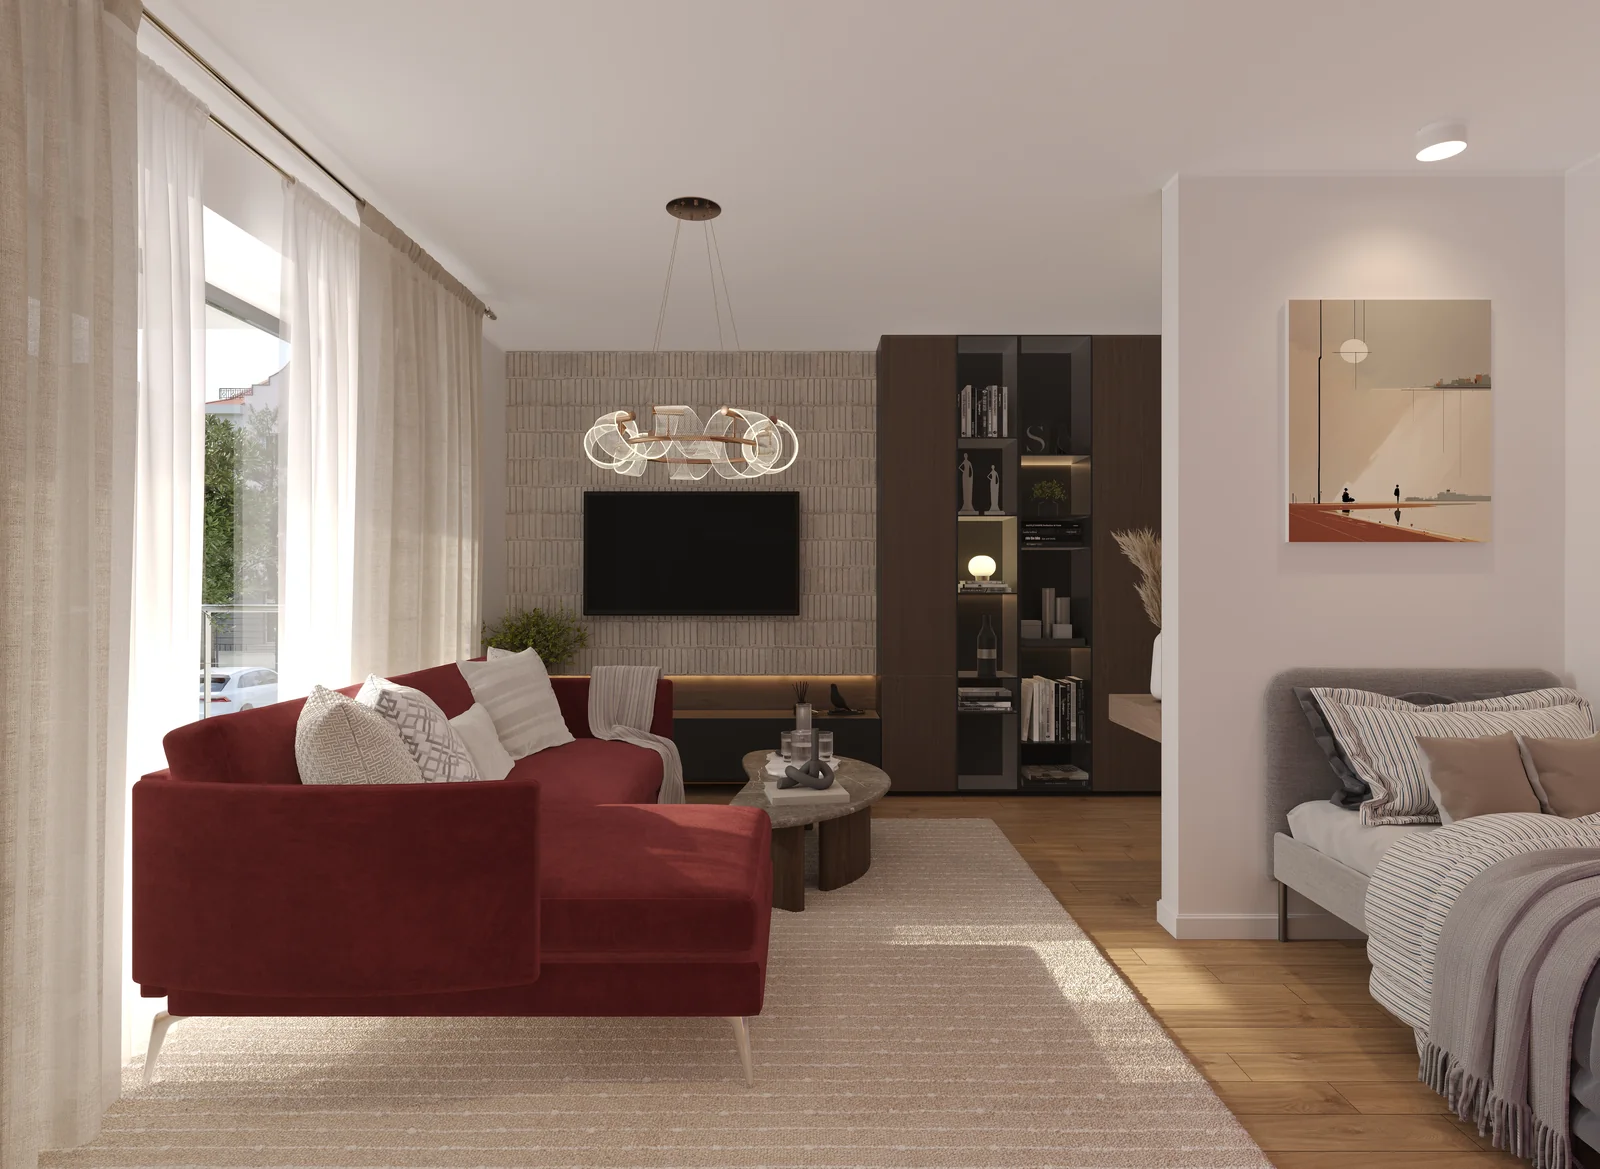
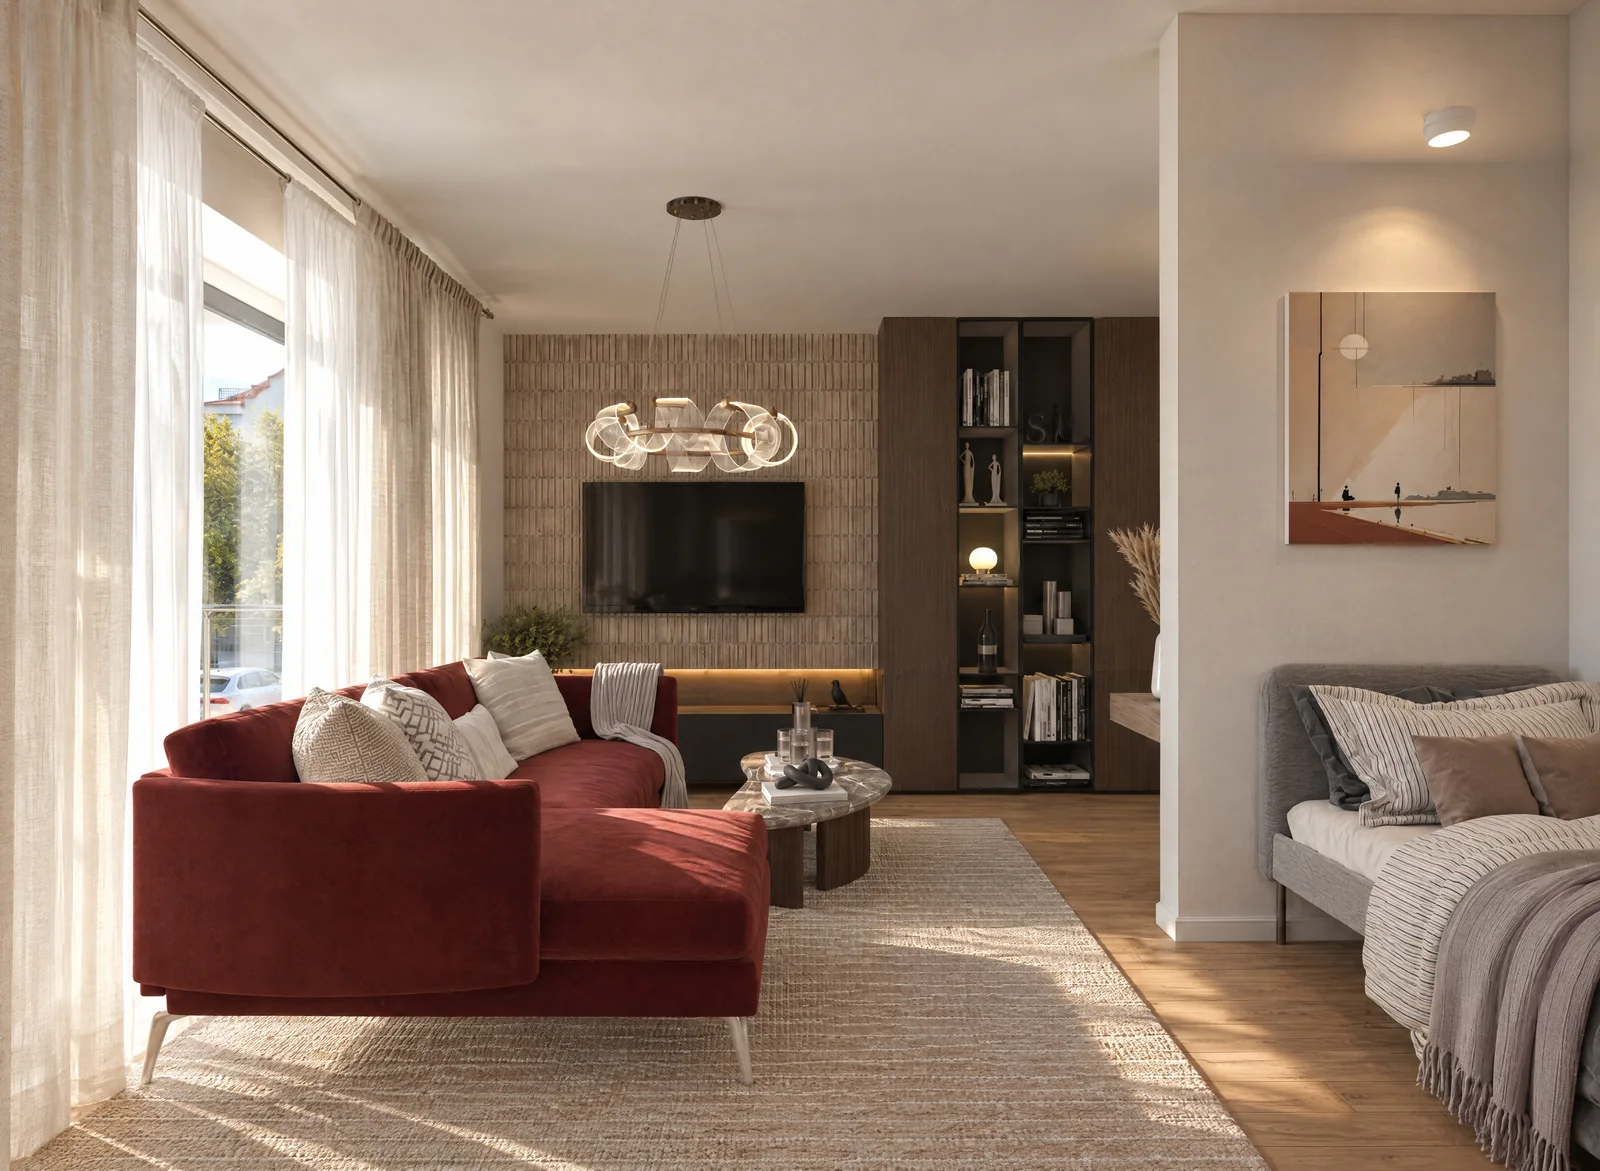
chore: publish site build 2026-09-13 14:47 UTC

diff --git a/index.html b/index.html
@@ -20,7 +20,7 @@
 <meta name="twitter:card" content="summary_large_image">
 <link rel="icon" href="/favicon.svg" type="image/svg+xml">
 <link rel="apple-touch-icon" href="/favicon.svg">
-<link rel="stylesheet" href="/stil.6be6761d.css">
+<link rel="stylesheet" href="/stil.f407c8a6.css">
 <link rel="stylesheet" href="/einwilligung.9a00bb95.css">
 <link rel="stylesheet" href="/formular.dc992d23.css">
 <link rel="stylesheet" href="/wohnungsrechner.1891209b.css">
@@ -182,6 +182,7 @@
   <section class="h8-abschnitt verkaufsstand">
     <h2 class="h8-abschnitt__titel h8-abschnitt__titel--vorbild" id="verkaufsstand" data-am-einblenden>Verkaufsstand</h2>
     <img class="h8-bild" src="/bilder/innen-03-wohnen-kueche-offen-2400.webp" srcset="/bilder/innen-03-wohnen-kueche-offen-800.webp 800w, /bilder/innen-03-wohnen-kueche-offen-1200.webp 1200w, /bilder/innen-03-wohnen-kueche-offen-1600.webp 1600w, /bilder/innen-03-wohnen-kueche-offen-2400.webp 2400w" sizes="(max-width: 1180px) 92vw, 1100px" alt="Wohnen mit offener Küche" width="1600" height="1169" loading="lazy" decoding="async">
+    <p class="h8-bildhinweis">Visualisierung, mit KI erzeugt. Unverbindlich.</p>
     <div class="h8-inhalt">
       <p class="h8-fliesstext">Der Vertrieb läuft seit September 2026. Reserviert wird mit einer Reservierungsvereinbarung, der notarielle Kaufvertrag folgt, sobald die Teilungserklärung vorliegt. Welche Wohnung noch frei ist, steht in der Übersicht weiter unten und wird laufend nachgeführt.</p>
       <ul class="h8-ampel">
@@ -635,6 +636,7 @@
 <section class="h8-abschnitt amv">
       <h2 class="h8-abschnitt__titel h8-abschnitt__titel--vorbild" id="vorteile" data-am-einblenden>Zwei Vorteile für Kapitalanleger</h2>
       <img class="h8-bild" src="/bilder/innen-02a-wohnen-sofa-braun-2400.webp" srcset="/bilder/innen-02a-wohnen-sofa-braun-800.webp 800w, /bilder/innen-02a-wohnen-sofa-braun-1200.webp 1200w, /bilder/innen-02a-wohnen-sofa-braun-1600.webp 1600w, /bilder/innen-02a-wohnen-sofa-braun-2400.webp 2400w" sizes="(max-width: 1180px) 92vw, 1100px" alt="Wohnen mit Schlafbereich" width="1600" height="1169" loading="lazy" decoding="async">
+      <p class="h8-bildhinweis">Visualisierung, mit KI erzeugt. Unverbindlich.</p>
       <div class="h8-inhalt">
         <p class="h8-fliesstext">Der eine ist die Abschreibung, der andere das zinsgünstige KfW-Darlehen. Beide gelten für jede der zwölf Wohnungen.</p>
         <div class="amv__spalten">
@@ -731,12 +733,14 @@
       <p class="h8-fussnote">Ein Energieausweis liegt für den Neubau noch nicht vor. Sobald er ausgestellt ist, stehen die Pflichtangaben nach GEG § 87 an dieser Stelle. Bis dahin wird kein Energiekennwert genannt.</p>
     </div>
     <img class="h8-bild" src="/bilder/innen-05-bad-2400.webp" srcset="/bilder/innen-05-bad-800.webp 800w, /bilder/innen-05-bad-1200.webp 1200w, /bilder/innen-05-bad-1600.webp 1600w, /bilder/innen-05-bad-2400.webp 2400w" sizes="(max-width: 1180px) 92vw, 1100px" alt="Bad mit Walk-in-Dusche" width="1080" height="1350" loading="lazy" decoding="async">
+    <p class="h8-bildhinweis">Visualisierung, mit KI erzeugt. Unverbindlich.</p>
     </div>
   </section>
 
   <div class="h8-band">
     <section class="h8-abschnitt zeitplan">
       <img class="h8-bild" src="/bilder/innen-04-wohnen-gross-2400.webp" srcset="/bilder/innen-04-wohnen-gross-800.webp 800w, /bilder/innen-04-wohnen-gross-1200.webp 1200w, /bilder/innen-04-wohnen-gross-1600.webp 1600w, /bilder/innen-04-wohnen-gross-2400.webp 2400w" sizes="(max-width: 1180px) 92vw, 1100px" alt="Grosser Wohnraum" width="1600" height="1169" loading="lazy" decoding="async">
+      <p class="h8-bildhinweis">Visualisierung, mit KI erzeugt. Unverbindlich.</p>
       <div class="h8-inhalt">
         <h2 class="h8-abschnitt__titel" id="zeitplan" data-am-einblenden>Wo das Projekt steht</h2>
         <p class="h8-fliesstext">Der Zeitplan steht offen auf der Seite, mit dem, was erledigt ist, und dem, was noch aussteht. Gezahlt wird nach der Makler- und Bauträgerverordnung in Raten nach Baufortschritt; die erste Rate wird mit dem Baubeginn fällig.</p>
@@ -757,6 +761,7 @@
   <section class="h8-abschnitt vertrauen">
     <h2 class="h8-abschnitt__titel h8-abschnitt__titel--vorbild" id="vertrauen" data-am-einblenden>Wer hinter dem Projekt steht</h2>
     <img class="h8-bild" src="/bilder/innen-04-wohnen-gross-2400.webp" srcset="/bilder/innen-04-wohnen-gross-800.webp 800w, /bilder/innen-04-wohnen-gross-1200.webp 1200w, /bilder/innen-04-wohnen-gross-1600.webp 1600w, /bilder/innen-04-wohnen-gross-2400.webp 2400w" sizes="(max-width: 1180px) 92vw, 1100px" alt="Grosser Wohnraum" width="1600" height="1169" loading="lazy" decoding="async">
+    <p class="h8-bildhinweis">Visualisierung, mit KI erzeugt. Unverbindlich.</p>
     <div class="h8-inhalt">
       <p class="h8-fliesstext">Wir verkaufen kein vermitteltes Objekt. Das Grundstück in der Hainbachstrasse gehört seit November 2020 zur Amanthos-Gruppe, Planung und Baugenehmigung haben wir selbst betrieben. Deshalb ist der Kauf für Sie provisionsfrei.</p>
       <ul class="h8-personen" data-am-einblenden>
@@ -774,6 +779,7 @@
     <section class="h8-abschnitt kontakt">
       <h2 class="h8-abschnitt__titel h8-abschnitt__titel--vorbild" id="kontakt" data-am-einblenden>Ihre Ansprechpartner</h2>
       <img class="h8-bild" src="/bilder/innen-03-wohnen-kueche-offen-2400.webp" srcset="/bilder/innen-03-wohnen-kueche-offen-800.webp 800w, /bilder/innen-03-wohnen-kueche-offen-1200.webp 1200w, /bilder/innen-03-wohnen-kueche-offen-1600.webp 1600w, /bilder/innen-03-wohnen-kueche-offen-2400.webp 2400w" sizes="(max-width: 1180px) 92vw, 1100px" alt="Wohnen mit offener Küche" width="1600" height="1169" loading="lazy" decoding="async">
+      <p class="h8-bildhinweis">Visualisierung, mit KI erzeugt. Unverbindlich.</p>
       <div class="h8-inhalt">
         <p class="h8-fliesstext">Sie erreichen uns direkt, ohne Maklerbüro dazwischen. Für eine Besichtigung der Lage, für Fragen zur Finanzierung oder zur Reservierung: rufen Sie an oder buchen Sie ein Telefonat.</p>
 <div class="amp" data-am-einblenden>
@@ -816,6 +822,7 @@
   <section class="h8-abschnitt broschuere">
     <h2 class="h8-abschnitt__titel h8-abschnitt__titel--vorbild" id="broschuere" data-am-einblenden>Broschüre anfordern</h2>
     <img class="h8-bild" src="/bilder/innen-02b-wohnen-sofa-rot-2400.webp" srcset="/bilder/innen-02b-wohnen-sofa-rot-800.webp 800w, /bilder/innen-02b-wohnen-sofa-rot-1200.webp 1200w, /bilder/innen-02b-wohnen-sofa-rot-1600.webp 1600w, /bilder/innen-02b-wohnen-sofa-rot-2400.webp 2400w" sizes="(max-width: 1180px) 92vw, 1100px" alt="Wohnen mit rotem Sofa" width="1600" height="1169" loading="lazy" decoding="async">
+    <p class="h8-bildhinweis">Visualisierung, mit KI erzeugt. Unverbindlich.</p>
     <div class="h8-inhalt">
       <p class="h8-fliesstext">Grundrisse, Ausstattung und Kaufpreise aller zwölf Wohnungen. Sie erhalten die PDF sofort im Anschluss.</p>
       <p class="h8-fliesstext">Ihre Angaben gehen direkt an Julian Neyer und werden nur zur Beantwortung Ihrer Anfrage genutzt. Es folgt kein Newsletter.</p>

diff --git a/stil.f407c8a6.css b/stil.f407c8a6.css
@@ -366,6 +366,24 @@ p:last-child { margin-bottom: 0; }
   background: var(--h8-karte);
 }
 
+/* Die Kennzeichnung unter einem Abschnittsbild.
+ *
+ * Seit dem 13.09.2026 sind alle acht Motive KI-ueberarbeitet: die Geometrie stammt weiter
+ * aus den Renderings von anitekt, Materialien, Licht und Vegetation kommen aus dem
+ * Bildmodell. Ein Objektbild ist damit sichtbar kennzeichnungspflichtig nach Artikel 50
+ * KI-VO. Vorher trug den Hinweis nur die Wohnungskarte, weil nur ihre Bilder aus KI kamen.
+ *
+ * Werte gleichlautend mit `.h8-karte__bildhinweis` oben und mit den Hinweisregeln in
+ * wohnungen.css, lage.css und held.css: dieselbe Pflicht darf auf derselben Seite nicht
+ * viererlei aussehen. 12 px ist die Untergrenze des Hauses.
+ *
+ * Die Namen jener Regeln stehen hier bewusst NICHT ausgeschrieben: ein Waechter verbietet
+ * fremde Praefixe in diesem Blatt und liest dabei auch Kommentare. */
+.h8-bildhinweis {
+  margin: 6px 0 0; font-size: 12px; letter-spacing: 0.04em;
+  color: var(--h8-leise);
+}
+
 /* Listen ------------------------------------------------------------------- */
 
 .h8-liste { margin: 0 0 16px; padding: 0 0 0 20px; }

diff --git a/404.html b/404.html
@@ -20,7 +20,7 @@
 <meta name="twitter:card" content="summary_large_image">
 <link rel="icon" href="/favicon.svg" type="image/svg+xml">
 <link rel="apple-touch-icon" href="/favicon.svg">
-<link rel="stylesheet" href="/stil.6be6761d.css">
+<link rel="stylesheet" href="/stil.f407c8a6.css">
 <link rel="stylesheet" href="/einwilligung.9a00bb95.css">
 <link rel="stylesheet" href="/formular.dc992d23.css">
 <link rel="stylesheet" href="/wohnungsrechner.1891209b.css">

diff --git a/datenschutz/index.html b/datenschutz/index.html
@@ -20,7 +20,7 @@
 <meta name="twitter:card" content="summary_large_image">
 <link rel="icon" href="/favicon.svg" type="image/svg+xml">
 <link rel="apple-touch-icon" href="/favicon.svg">
-<link rel="stylesheet" href="/stil.6be6761d.css">
+<link rel="stylesheet" href="/stil.f407c8a6.css">
 <link rel="stylesheet" href="/einwilligung.9a00bb95.css">
 <link rel="stylesheet" href="/formular.dc992d23.css">
 <link rel="stylesheet" href="/wohnungsrechner.1891209b.css">

diff --git a/impressum/index.html b/impressum/index.html
@@ -20,7 +20,7 @@
 <meta name="twitter:card" content="summary_large_image">
 <link rel="icon" href="/favicon.svg" type="image/svg+xml">
 <link rel="apple-touch-icon" href="/favicon.svg">
-<link rel="stylesheet" href="/stil.6be6761d.css">
+<link rel="stylesheet" href="/stil.f407c8a6.css">
 <link rel="stylesheet" href="/einwilligung.9a00bb95.css">
 <link rel="stylesheet" href="/formular.dc992d23.css">
 <link rel="stylesheet" href="/wohnungsrechner.1891209b.css">

diff --git a/rechner/index.html b/rechner/index.html
@@ -20,7 +20,7 @@
 <meta name="twitter:card" content="summary_large_image">
 <link rel="icon" href="/favicon.svg" type="image/svg+xml">
 <link rel="apple-touch-icon" href="/favicon.svg">
-<link rel="stylesheet" href="/stil.6be6761d.css">
+<link rel="stylesheet" href="/stil.f407c8a6.css">
 <link rel="stylesheet" href="/einwilligung.9a00bb95.css">
 <link rel="stylesheet" href="/formular.dc992d23.css">
 <link rel="stylesheet" href="/wohnungsrechner.1891209b.css">
